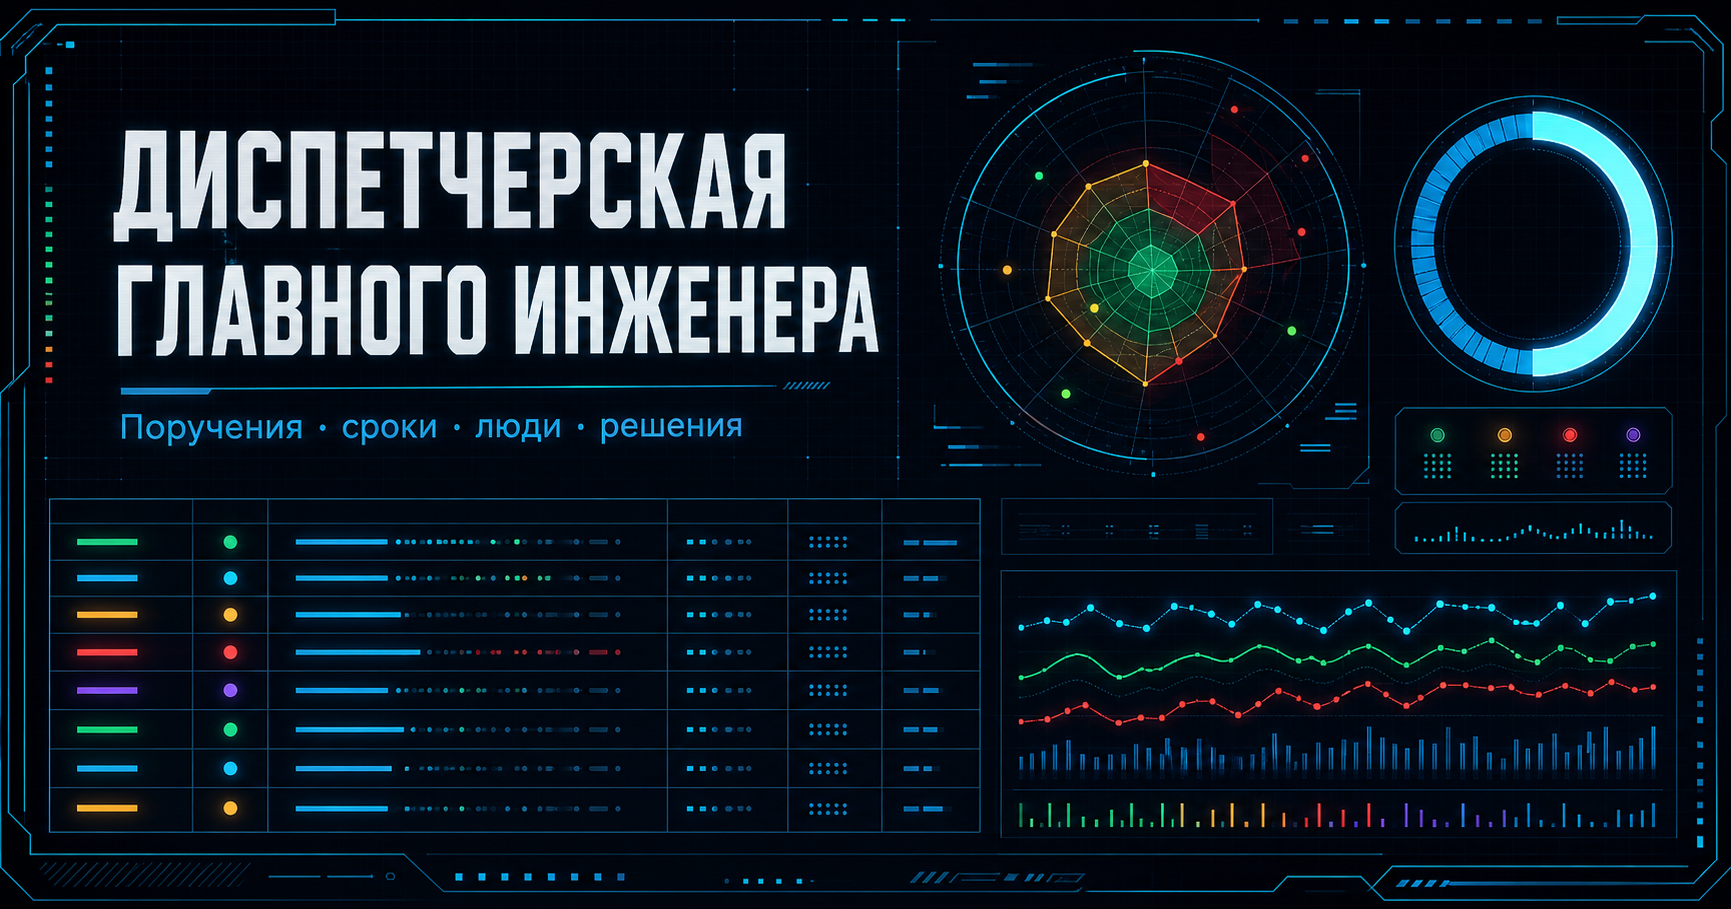
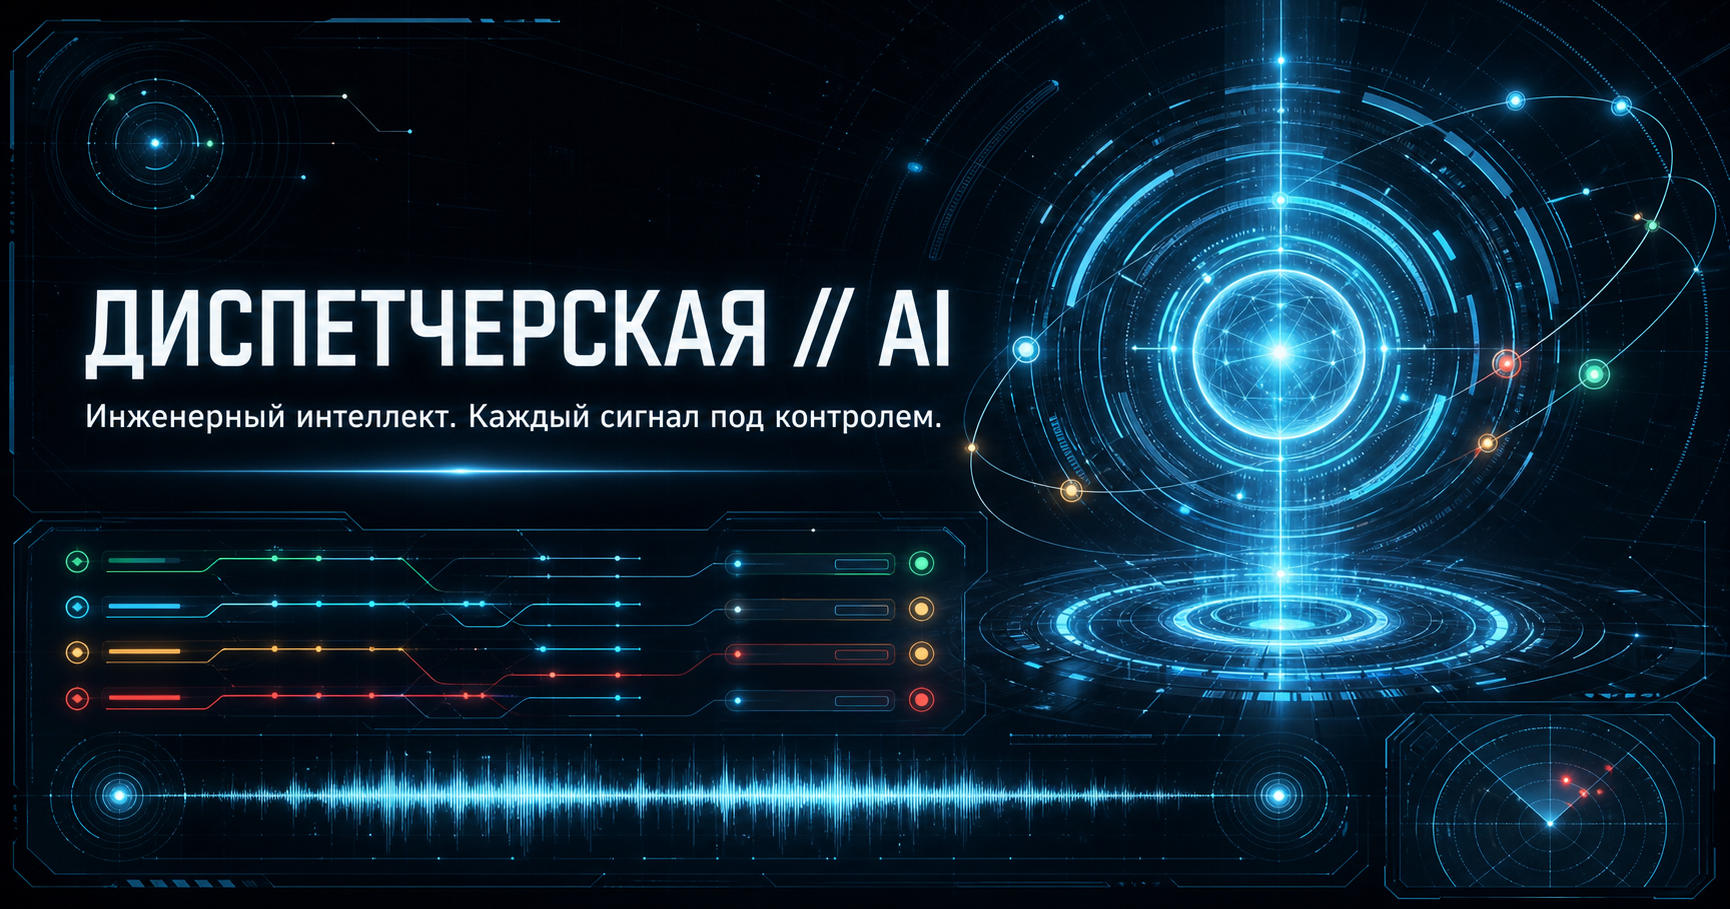
Restyle dispatcher as holographic AI interface

diff --git a/app/globals.css b/app/globals.css
@@ -5,8 +5,8 @@
   --ink: #eaf2f8;
   --muted: #8291a5;
   --line: rgba(133, 170, 202, .15);
-  --panel: rgba(12, 20, 32, .78);
-  --cyan: #3cc8ff;
+  --panel: rgba(8, 30, 46, .48);
+  --cyan: #6eeaff;
   --green: #37e6a1;
   --red: #ff5263;
   --amber: #ffc857;
@@ -28,7 +28,8 @@ button:disabled { opacity: .45; cursor: not-allowed; }
   background:
     linear-gradient(rgba(73, 114, 150, .045) 1px, transparent 1px),
     linear-gradient(90deg, rgba(73, 114, 150, .045) 1px, transparent 1px),
-    radial-gradient(circle at 50% -10%, #142b42 0, #09111d 36%, var(--void) 70%);
+    radial-gradient(circle at 52% 7%, rgba(27,116,153,.38) 0, rgba(7,34,54,.2) 25%, transparent 48%),
+    radial-gradient(circle at 50% -10%, #10283c 0, #07111c 36%, var(--void) 70%);
   background-size: 42px 42px, 42px 42px, auto;
 }
 .app-shell::before {
@@ -54,6 +55,7 @@ button:disabled { opacity: .45; cursor: not-allowed; }
 .brand-orbit::before { inset: -6px; }.brand-orbit::after { inset: 6px; animation-direction: reverse; }
 .brand-orbit span { font-weight: 900; letter-spacing: .08em; font-size: 13px; }
 .brand h1 { margin: 2px 0 0; font-size: 21px; letter-spacing: -.03em; }
+.brand h1 em { color: var(--cyan); font: 9px var(--font-geist-mono), monospace; letter-spacing: .15em; font-style: normal; }
 .kicker, .signal-label { margin: 0; font-size: 9px; font-weight: 800; letter-spacing: .19em; color: #718398; }
 .header-center { display: grid; grid-template-columns: auto auto; column-gap: 8px; align-items: center; padding: 0 38px; border-left: 1px solid var(--line); border-right: 1px solid var(--line); }
 .header-center > span:not(.live-pulse) { font-size: 9px; letter-spacing: .15em; color: var(--green); }
@@ -101,6 +103,86 @@ button:disabled { opacity: .45; cursor: not-allowed; }
 .risk-radar > div:last-child { display: grid; grid-template-columns: 1fr auto; width: 165px; }
 .risk-radar span { grid-column: 1 / 3; color: #6f7d8f; font-size: 8px; letter-spacing: .16em; }
 .risk-radar strong { font-size: 32px; color: var(--red); }.risk-radar small { align-self: end; padding-bottom: 6px; color: #8b98a8; font-size: 9px; }
+
+/* Holographic assistant layer */
+.hud-frame { position: fixed; inset: 13px; z-index: 30; pointer-events: none; opacity: .52; }
+.hud-frame > i { position: absolute; width: 52px; height: 52px; filter: drop-shadow(0 0 7px rgba(110,234,255,.5)); }
+.hud-frame > i:nth-child(1) { top: 0; left: 0; border-top: 1px solid var(--cyan); border-left: 1px solid var(--cyan); }
+.hud-frame > i:nth-child(2) { top: 0; right: 0; border-top: 1px solid var(--cyan); border-right: 1px solid var(--cyan); }
+.hud-frame > i:nth-child(3) { bottom: 0; right: 0; border-bottom: 1px solid var(--cyan); border-right: 1px solid var(--cyan); }
+.hud-frame > i:nth-child(4) { bottom: 0; left: 0; border-bottom: 1px solid var(--cyan); border-left: 1px solid var(--cyan); }
+.hud-side-rail {
+  position: fixed; z-index: 25; top: 120px; left: 6px; bottom: 90px; width: 20px; display: flex; flex-direction: column;
+  align-items: center; gap: 11px; color: rgba(110,234,255,.52); pointer-events: none;
+}
+.hud-side-rail::before { content: ""; position: absolute; top: 31px; bottom: 65px; left: 9px; width: 1px; background: linear-gradient(transparent, rgba(110,234,255,.32), transparent); }
+.hud-side-rail span, .hud-side-rail em { writing-mode: vertical-rl; font: 6px var(--font-geist-mono), monospace; letter-spacing: .2em; font-style: normal; }
+.hud-side-rail b { position: relative; z-index: 1; background: var(--void); font: 6px var(--font-geist-mono), monospace; }
+.hud-side-rail i { position: relative; z-index: 1; width: 5px; height: 5px; border: 1px solid var(--cyan); transform: rotate(45deg); background: var(--void); }
+.command-header {
+  backdrop-filter: blur(18px); background: linear-gradient(90deg, rgba(2,13,23,.35), rgba(9,35,51,.2), rgba(2,13,23,.35));
+}
+.command-header::before {
+  content: ""; position: absolute; left: 50%; bottom: -1px; width: min(42vw, 620px); height: 1px; transform: translateX(-50%);
+  background: linear-gradient(90deg, transparent, rgba(110,234,255,.75), transparent); box-shadow: 0 0 18px rgba(110,234,255,.6);
+}
+.assistant-brief {
+  width: min(590px, 100%); margin-top: 26px; padding: 12px 14px; display: grid; grid-template-columns: 86px 1fr auto; align-items: center; gap: 13px;
+  border: 1px solid rgba(110,234,255,.2); background: linear-gradient(90deg, rgba(110,234,255,.06), rgba(110,234,255,.01));
+  clip-path: polygon(0 0, calc(100% - 15px) 0, 100% 15px, 100% 100%, 15px 100%, 0 calc(100% - 15px));
+}
+.assistant-wave { height: 30px; display: flex; align-items: center; justify-content: center; gap: 4px; border-right: 1px solid rgba(110,234,255,.16); }
+.assistant-wave i { width: 2px; height: 8px; background: var(--cyan); box-shadow: 0 0 7px var(--cyan); animation: voice-wave 1.2s ease-in-out infinite; }
+.assistant-wave i:nth-child(2), .assistant-wave i:nth-child(6) { animation-delay: .12s; }.assistant-wave i:nth-child(3), .assistant-wave i:nth-child(5) { animation-delay: .24s; }.assistant-wave i:nth-child(4) { animation-delay: .36s; }
+.assistant-brief div small { display: block; color: #58788e; font: 7px var(--font-geist-mono), monospace; letter-spacing: .16em; }
+.assistant-brief div strong { display: block; margin-top: 5px; color: #bfeef7; font-size: 10px; font-weight: 600; }
+.assistant-brief > b { color: var(--cyan); font: 7px var(--font-geist-mono), monospace; letter-spacing: .15em; animation: blink 2s infinite; }
+.core-ring {
+  background:
+    radial-gradient(circle, rgba(110,234,255,.16) 0 2%, transparent 3% 34%, rgba(110,234,255,.08) 35% 36%, transparent 37%),
+    conic-gradient(var(--cyan) 0 var(--progress), rgba(110,234,255,.06) var(--progress) 360deg);
+  filter: drop-shadow(0 0 28px rgba(110,234,255,.16));
+}
+.core-ring::before { inset: 13px; background: radial-gradient(circle, rgba(22,95,125,.2), #07131f 62%); box-shadow: inset 0 0 35px rgba(110,234,255,.12); }
+.core-ring::after { inset: -24px; border-style: solid; border-color: rgba(110,234,255,.15) transparent; animation-duration: 13s; }
+.core-orbit { position: absolute; z-index: 2; border-radius: 50%; pointer-events: none; }
+.orbit-one { inset: -13px; border: 1px dotted rgba(110,234,255,.52); animation: orbit 18s linear infinite; }
+.orbit-two { inset: 26px; border: 1px dashed rgba(110,234,255,.24); animation: orbit 10s linear infinite reverse; }
+.core-node { position: absolute; z-index: 3; width: 7px; height: 7px; border-radius: 50%; background: #fff; box-shadow: 0 0 13px 3px var(--cyan); }
+.node-a { top: 11px; left: 54%; }.node-b { bottom: 33px; left: 4px; }
+.risk-radar .radar-grid {
+  border-color: rgba(110,234,255,.32);
+  background: radial-gradient(circle, rgba(110,234,255,.025) 0 20%, rgba(110,234,255,.11) 21% 21.5%, transparent 22% 45%, rgba(110,234,255,.11) 46% 46.5%, transparent 47%), linear-gradient(90deg, transparent 49.5%, rgba(110,234,255,.18) 50%, transparent 50.5%), linear-gradient(transparent 49.5%, rgba(110,234,255,.18) 50%, transparent 50.5%);
+  box-shadow: inset 0 0 35px rgba(110,234,255,.05), 0 0 25px rgba(110,234,255,.05);
+}
+.radar-sweep { background: linear-gradient(30deg, rgba(110,234,255,.28), transparent 58%); }
+.metric-tile, .control-surface, .analytics-card {
+  clip-path: polygon(0 0, calc(100% - 13px) 0, 100% 13px, 100% 100%, 13px 100%, 0 calc(100% - 13px));
+}
+.metric-tile {
+  background: linear-gradient(135deg, rgba(14,58,79,.34), rgba(5,16,27,.72));
+  backdrop-filter: blur(16px); transition: transform .2s, border-color .2s, background .2s;
+}
+.metric-tile:hover { background: linear-gradient(135deg, rgba(20,92,119,.4), rgba(7,22,35,.82)); }
+.metric-tile::after {
+  content: ""; position: absolute; inset: 0; opacity: .25; pointer-events: none;
+  background: linear-gradient(110deg, transparent 0 48%, rgba(110,234,255,.2) 49%, transparent 50% 100%); transform: translateX(-100%); transition: transform .55s;
+}
+.metric-tile:hover::after { transform: translateX(100%); }
+.control-surface, .analytics-card, .task-modal {
+  background: linear-gradient(145deg, rgba(8,37,53,.65), rgba(3,12,21,.84));
+  backdrop-filter: blur(20px); box-shadow: inset 0 0 45px rgba(110,234,255,.025), 0 30px 80px rgba(0,0,0,.3);
+}
+.task-row.selected { background: linear-gradient(90deg, rgba(110,234,255,.15), rgba(110,234,255,.015)); }
+.task-row.selected::before { content: "◈"; position: absolute; left: 5px; color: var(--cyan); font-size: 7px; animation: pulse-text 1.5s infinite; }
+.task-inspector { background: radial-gradient(circle at 95% 8%, rgba(110,234,255,.13), transparent 27%), linear-gradient(180deg, rgba(10,42,59,.2), transparent); }
+.detail-matrix div { background: rgba(110,234,255,.018); }
+.status-badge.active i { animation: pulse 1.8s infinite; }
+.analytics-card::after {
+  content: ""; position: absolute; right: 10px; bottom: 8px; width: 42px; height: 6px;
+  background: repeating-linear-gradient(90deg, rgba(110,234,255,.5) 0 3px, transparent 3px 7px); opacity: .4;
+}
+.toast { background: rgba(5,27,41,.92); backdrop-filter: blur(18px); clip-path: polygon(0 0, calc(100% - 13px) 0, 100% 13px, 100% 100%, 13px 100%, 0 calc(100% - 13px)); }
 
 .metric-deck { max-width: 1540px; margin: 0 auto 18px; padding: 0 26px; display: grid; grid-template-columns: repeat(6, 1fr); gap: 8px; }
 .metric-tile {
@@ -181,6 +263,8 @@ footer { max-width: 1488px; margin: 0 auto; padding: 0 2px 20px; display: flex; 
 @keyframes pulse { 70% { box-shadow: 0 0 0 9px rgba(55,230,161,0); } 100% { box-shadow: 0 0 0 0 rgba(55,230,161,0); } }
 @keyframes blink { 50% { opacity: .2; } }
 @keyframes toast-in { from { transform: translateY(15px); opacity: 0; } }
+@keyframes voice-wave { 0%,100% { height: 6px; opacity: .35; } 50% { height: 28px; opacity: 1; } }
+@keyframes pulse-text { 50% { opacity: .25; text-shadow: 0 0 12px var(--cyan); } }
 
 @media (prefers-reduced-motion: reduce) { *, *::before, *::after { animation-duration: .01ms !important; animation-iteration-count: 1 !important; } }
 @media (max-width: 1180px) {

diff --git a/app/page.tsx b/app/page.tsx
@@ -177,13 +177,17 @@ export default function Home() {
   return (
     <main className="app-shell">
       <div className="ambient ambient-a" /><div className="ambient ambient-b" />
+      <div className="hud-frame" aria-hidden="true"><i /><i /><i /><i /></div>
+      <div className="hud-side-rail" aria-hidden="true">
+        <span>GI / AI</span><b>01</b><i /><b>02</b><i /><b>03</b><i /><em>SYSTEM ONLINE</em>
+      </div>
       <header className="command-header">
         <div className="brand">
           <div className="brand-orbit"><span>ГИ</span></div>
-          <div><p className="kicker">ИНЖЕНЕРНЫЙ КОМАНДНЫЙ КОНТУР</p><h1>Диспетчерская</h1></div>
+          <div><p className="kicker">ИНТЕЛЛЕКТУАЛЬНЫЙ КОМАНДНЫЙ КОНТУР</p><h1>Диспетчерская <em>// AI</em></h1></div>
         </div>
         <div className="header-center">
-          <span className="live-pulse" /><span>СИСТЕМА АКТИВНА</span>
+          <span className="live-pulse" /><span>ASSISTANT CORE ONLINE</span>
           <b>{activeTasks.length}</b><small>ПОРУЧЕНИЙ В КОНТУРЕ</small>
         </div>
         <div className="header-actions">
@@ -194,19 +198,25 @@ export default function Home() {
 
       <section className="hero-grid">
         <div className="hero-copy">
-          <p className="signal-label">ОПЕРАТИВНАЯ КАРТИНА · 30.07.2026</p>
-          <h2>Каждое поручение.<br /><em>Под контролем.</em></h2>
-          <p>Сроки, люди, риски и решения в одном живом контуре. Теперь тут можно не только смотреть, как всё горит.</p>
+          <p className="signal-label">ДОБРЫЙ ВЕЧЕР, НИКОЛАЙ · ОПЕРАТИВНАЯ КАРТИНА ГОТОВА</p>
+          <h2>Инженерный<br /><em>интеллект.</em></h2>
+          <p>Я свёл сроки, людей, риски и решения в единый контур. Критические сигналы выделены. Рутинная паника отфильтрована.</p>
+          <div className="assistant-brief">
+            <span className="assistant-wave"><i /><i /><i /><i /><i /><i /><i /></span>
+            <div><small>СИСТЕМНЫЙ БРИФИНГ</small><strong>{statusCounts.find((item) => item.label === "Просрочено")?.value ?? 0} просрочено · {statusCounts.find((item) => item.label === "На проверке")?.value ?? 0} на проверке · {completion}% исполнено</strong></div>
+            <b>LIVE</b>
+          </div>
         </div>
         <div className="completion-core">
           <div className="core-ring" style={{ "--progress": `${completion * 3.6}deg` } as React.CSSProperties}>
+            <span className="core-orbit orbit-one" /><span className="core-orbit orbit-two" /><i className="core-node node-a" /><i className="core-node node-b" />
             <div><strong>{completion}<sup>%</sup></strong><span>исполнено</span></div>
           </div>
-          <div className="core-caption"><i /><span>Эффективность контура</span><b>{completion >= 70 ? "НОРМА" : completion >= 40 ? "ВНИМАНИЕ" : "РИСК"}</b></div>
+          <div className="core-caption"><i /><span>Реактор исполнения</span><b>{completion >= 70 ? "STABLE" : completion >= 40 ? "MONITOR" : "ALERT"}</b></div>
         </div>
         <div className="risk-radar">
           <div className="radar-grid"><span className="radar-sweep" /><i className="blip b1" /><i className="blip b2" /><i className="blip b3" /></div>
-          <div><span>РАДАР РИСКОВ</span><strong>{statusCounts.find((item) => item.label === "Просрочено")?.value ?? 0}</strong><small>просрочено</small></div>
+          <div><span>TACTICAL RISK SCAN</span><strong>{statusCounts.find((item) => item.label === "Просрочено")?.value ?? 0}</strong><small>просрочено</small></div>
         </div>
       </section>
 
